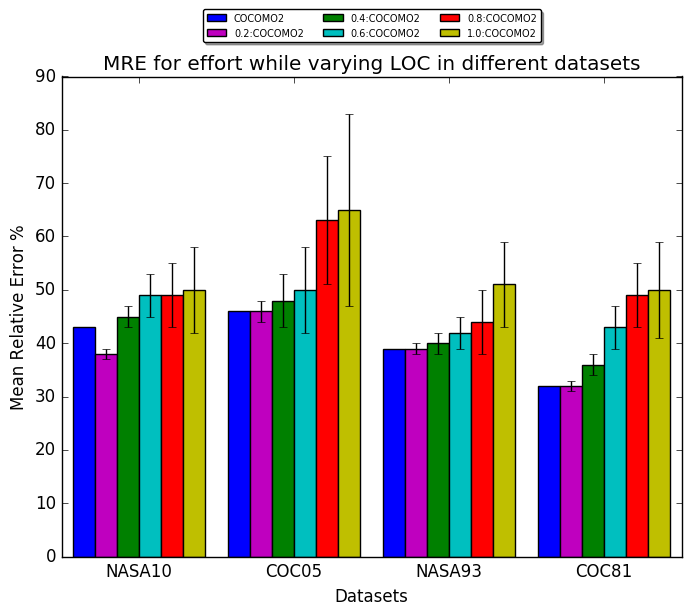
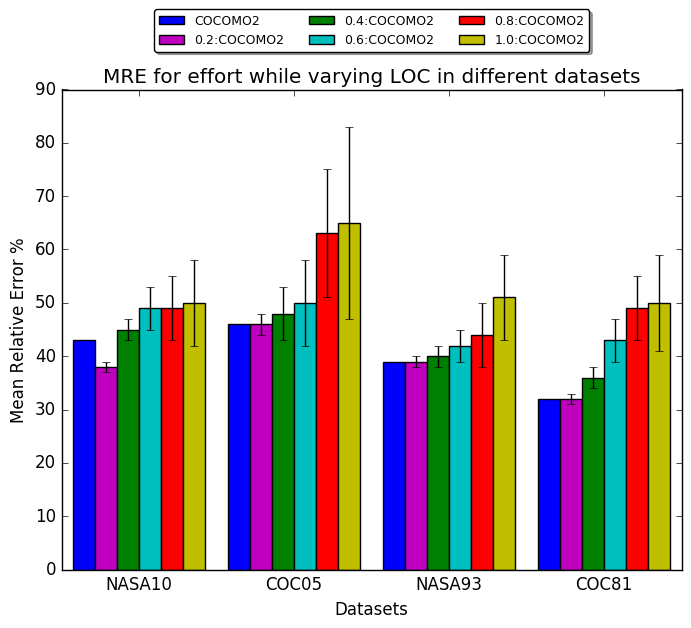
LOC paper revisted

diff --git a/loc_paper/figs.py b/loc_paper/figs.py
@@ -60,7 +60,7 @@ def loc_error():
   ax.set_title('MRE for effort while varying LOC in different datasets')
   ax.set_xticks(np.arange(len(datasets)) + len(methods)*width/2 + padding/2)
   ax.set_xticklabels(datasets)
-  ax.legend(blocks, methods, loc='upper center', bbox_to_anchor=(0.5, 1.15), ncol=3, fontsize=7, fancybox=True, shadow=True)
+  ax.legend(blocks, methods, loc='upper center', bbox_to_anchor=(0.5, 1.18), ncol=3, fontsize=9, fancybox=True, shadow=True)
   plt.savefig("loc_paper/mre.png", bbox_inches='tight',dpi=100)
   plt.clf()
 
